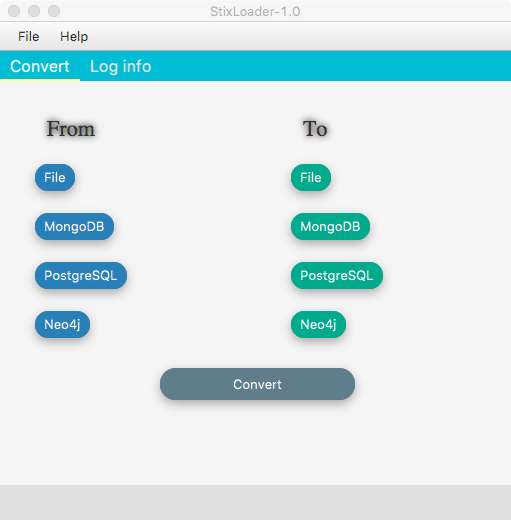
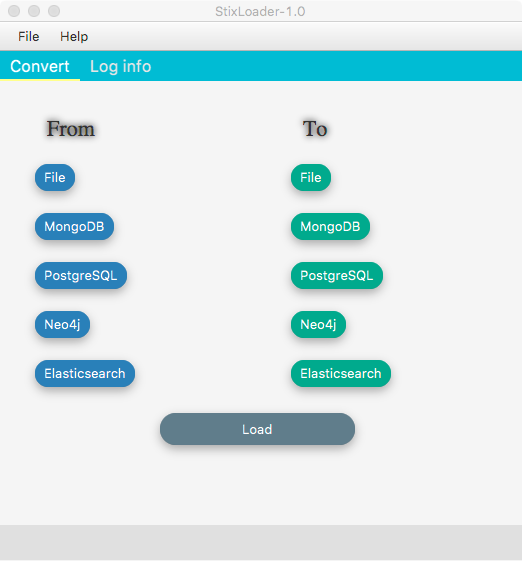
initial commit

diff --git a/README.md b/README.md
@@ -32,7 +32,7 @@ This will display the main user interface of the application.
 ![Alt text](/stixloader.png?raw=true "StixLoader")
 
 Select the data source from the **From** list, then select a destination from the **To** list.
-**StixLoader** will convert and load the data as per the selections when the **Convert** button is clicked. 
+**StixLoader** will convert and load the data as per the selections when the **Load** button is clicked. 
 Some basic chronological log information can be read in the *Log info* tab.
 
 Selecting *File* will popup a file dialog to choose the file to convert to or from. The file types can be 
@@ -42,7 +42,7 @@ are ignored.
 
 Selecting *MongoDB* will try to connect to a *MongoDB* server. If no server is running a message 
 to that effect will be displayed at the bottom of the App. Ensure that the *MongoDB* server has 
- finished connecting before clicking on the *Convert* button.
+ finished connecting before clicking on the **Load** button.
 
 Selecting *Neo4j* will pop-up a dialog to choose the Neo4j database directory to load the data to. 
 Currently *Neo4j* can only be selected as a destination.  
@@ -55,8 +55,8 @@ if *MongoDB* is selected in the *From* section, the *MongoDB* is deselected in t
 To deselect a currently selected item, simply click on it again. If the selection pops-up a dialog, 
 for example when choosing *File*, select *Cancel* and the selection will be removed.
 
-The *application.conf* file in the resource directory contains settings for the MongoDB server 
-and Neo4j default database directory. Adjust these entries to suit your system.
+The *application.conf* file in the resource directory contains settings for the MongoDB server, 
+Neo4j default database directory and Elasticsearch server. Adjust these entries to suit your system.
 
 Note: a full debugging log can be found in the *application.log* file in the *logs* directory. 
 To tune the loggin process, edit the *logback.xml* file.
@@ -92,10 +92,17 @@ Java 8 is required.
 
 7) [PostgreSQL](https://www.postgresql.org/)
 
+8) [Elasticsearch](https://www.elastic.co/)
+
+9) [Elastic4s](https://github.com/sksamuel/elastic4s)
+
 ### Status
 
 work in progress.
 
-Currently, only converts and loads STIX-2 from: file and MongoDB to: file, MongoDB and Neo4j.
+Currently, only converts and loads STIX-2 
 
+from: file to: MongoDB, Neo4j and Elasticsearch, and
+
+from: MongoDB to: file and Neo4j
 
